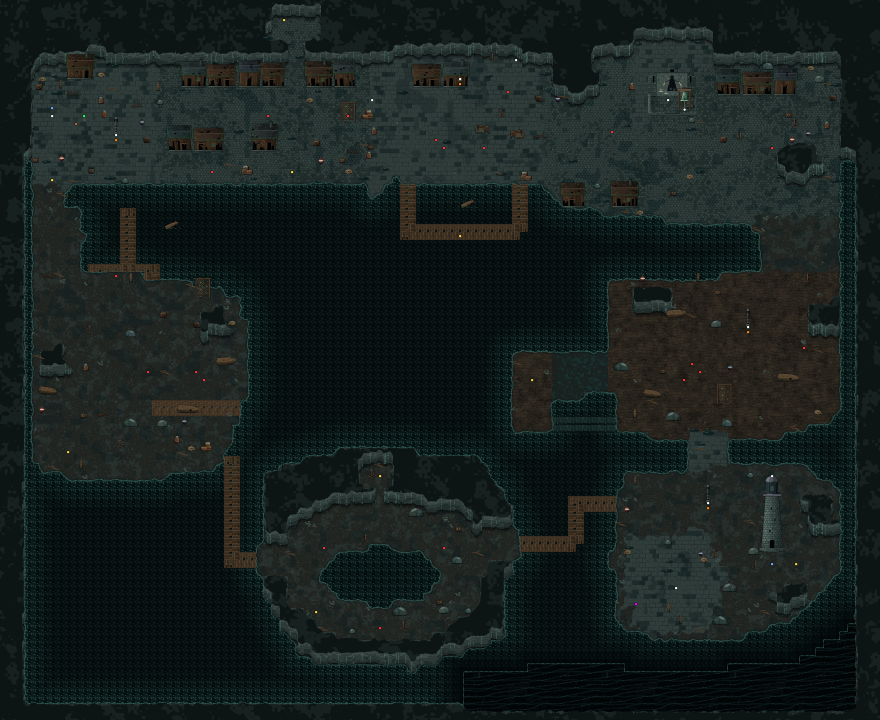
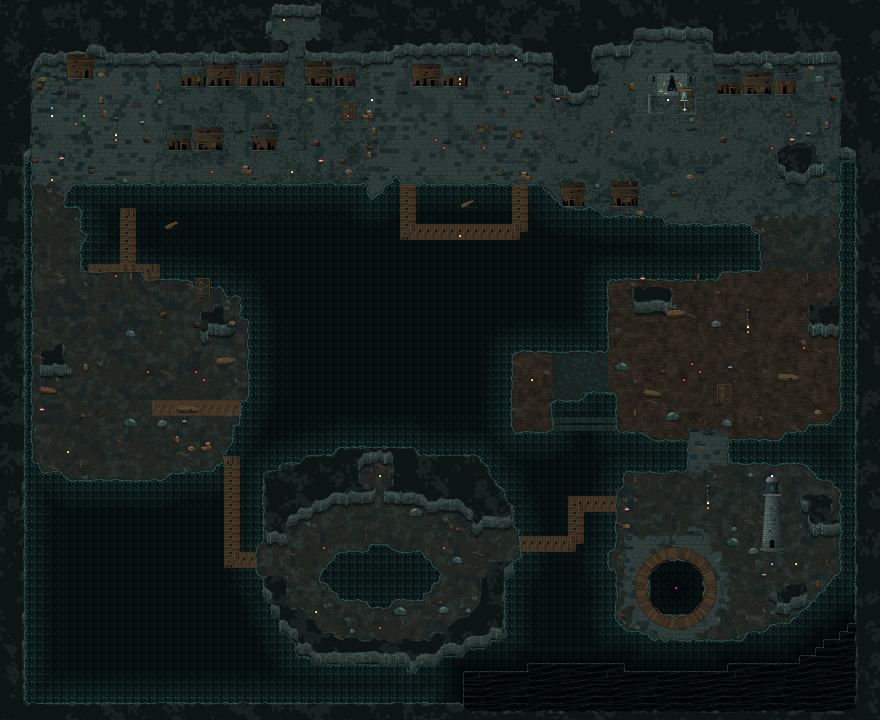
Mundo 4: la arena del Pez Farol es una poza negra con un anillo de tablas que se camina
La poza (radio 128) es agua negra sólida en el centro de arena_jefe (poza: 128), rodeada por anillo_poza
(tablas mojadas, pilotes y sogas) hasta el radio 208. El jefe arranca en el centro. La prueba revisa que el
anillo se camina entero con las dos mareas, se conecta con la entrada y llega a un farol.

Claude-Session: https://claude.ai/code/session_01CzS8aAP77ry69EfvgCR5Uw

Changed region(s): [[0.7057, 0.7639, 0.8284, 0.8861]]

diff --git a/src/engine/world/puertoMap.ts b/src/engine/world/puertoMap.ts
@@ -69,6 +69,8 @@ interface Design {
   tide: Uint8Array;
   /** agua quieta (reflejo) */
   still: Uint8Array;
+  /** la poza de la arena del Pez Farol (agua negra, honda) */
+  pool: Uint8Array;
 }
 
 function inPoly(x: number, y: number, poly: Poly): boolean {
@@ -161,15 +163,26 @@ const FLOTANTES: TP[] = [[69, 52], [71, 52], [73, 52], [75, 52]];
 
 /** El agua quieta de la cueva (reflejo) */
 const POZA = { c: [47.5, 72] as TP, rx: 7.6, ry: 3.6 };
+/**
+ * La arena del Pez Farol: una poza de agua negra de 4 cuadros de radio en el centro (ahí nada el pez, no se entra) y
+ * alrededor un anillo que se camina hasta el radio de la arena, con un muelle redondo de tablas, pilotes y sogas.
+ */
+export const ARENA_POZA = { c: [84.5, 73.5] as TP, r: 4, anillo: 6.6 };
 
 function makeDesign(): Design {
   const W = PUERTO_W, H = PUERTO_H, t = new Uint8Array(W * H).fill(ROCK);
-  const dock = new Uint8Array(W * H), tide = new Uint8Array(W * H), still = new Uint8Array(W * H);
+  const dock = new Uint8Array(W * H), tide = new Uint8Array(W * H), still = new Uint8Array(W * H), pool = new Uint8Array(W * H);
   for (const { t: v, poly } of TIERRAS) {
     for (let y = 0; y < H; y++) for (let x = 0; x < W; x++) if (inPoly(x + 0.5, y + 0.5, poly)) t[y * W + x] = v;
   }
   // la poza de la cueva
   for (let y = 0; y < H; y++) for (let x = 0; x < W; x++) if (Math.hypot((x + 0.5 - POZA.c[0]) / POZA.rx, (y + 0.5 - POZA.c[1]) / POZA.ry) < 1) { t[y * W + x] = WATER; still[y * W + x] = 1; }
+  // la arena del Pez Farol: la poza en el centro y el anillo que se camina alrededor
+  for (let y = 0; y < H; y++) for (let x = 0; x < W; x++) {
+    const dd = Math.hypot(x + 0.5 - ARENA_POZA.c[0], y + 0.5 - ARENA_POZA.c[1]), k = y * W + x;
+    if (dd < ARENA_POZA.r) { t[k] = WATER; still[k] = 1; pool[k] = 1; }
+    else if (dd < ARENA_POZA.anillo) t[k] = SLAB;
+  }
   // el barro de la marea baja
   for (let y = 0; y < H; y++) for (let x = 0; x < W; x++) if (inPoly(x + 0.5, y + 0.5, BARRO) && t[y * W + x] === WATER) { t[y * W + x] = MUD; tide[y * W + x] = 1; }
   // los muelles (ancho 2)
@@ -185,7 +198,7 @@ function makeDesign(): Design {
   for (const [x, y] of FLOTANTES) for (const dy of [0, 1]) for (const dx of [0, 1]) { const i = (y + dy) * W + x + dx; if (t[i] === WATER) tide[i] = 2; }
   // el borde del mapa es roca
   for (let y = 0; y < H; y++) for (let x = 0; x < W; x++) if (x < 2 || y < 2 || x >= W - 2 || y >= H - 1) t[y * W + x] = t[y * W + x] === VOID ? VOID : ROCK;
-  return { t, dock, tide, still };
+  return { t, dock, tide, still, pool };
 }
 
 /** Ruido de valor suave (para los bordes y las texturas del piso). */
@@ -278,6 +291,8 @@ function paintPuerto(d: Design, seed: number): PaintedTerrain {
       if (dVoid[i] < 160) a = Math.max(a, Math.round((1 - dVoid[i] / 160) * 235));
       // la poza de la cueva es quieta y un poco más clara en el medio
       if (d.still[ty * W + tx]) a = Math.round(40 + deep * 60);
+      // la poza del Pez Farol: tan negra como el mar hondo (la luz del pez es lo único que brilla ahí)
+      if (d.pool[ty * W + tx]) a = Math.max(160, Math.round(150 + deep * 60));
       set(i, [1, 4, 5], a);
       continue;
     }
@@ -601,9 +616,10 @@ export function puertoMap(seed = 444): BigMap & { premium: PuertoReport } {
   placeT('faro', LP.faro[0], LP.faro[1]);
   for (let y = LP.faro[1] - 1; y <= LP.faro[1]; y++) for (let x = LP.faro[0] - 2; x <= LP.faro[0] + 2; x++) occ[at(x, y)] = 1;
   const [ax, ay] = LP.arena;
-  entities.push({ tipo: 'arena_jefe', x: T(ax), y: T(ay), props: { radio: 6.5 * TILE, agua: true } });
-  // el pez sale del agua al borde de la plataforma
-  entities.push({ tipo: 'jefe', x: T(ax - 5), y: T(ay + 2), props: { enemigo: 'pez_farol', nombre: 'El Pez Farol', titulo: 'El que se robó la luz del faro', en_agua: true } });
+  entities.push({ tipo: 'arena_jefe', x: T(ax), y: T(ay), props: { radio: 6.5 * TILE, agua: true, poza: ARENA_POZA.r * TILE } });
+  // el pez nada en la poza del centro; la heroína pelea en el anillo de alrededor
+  entities.push({ tipo: 'jefe', x: T(ax), y: T(ay), props: { enemigo: 'pez_farol', nombre: 'El Pez Farol', titulo: 'El que se robó la luz del faro', en_agua: true } });
+  decos.push({ sprite: 'anillo_poza', x: T(ax), y: T(ay) });
   entities.push({ tipo: 'portal_jefe', x: T(LP.faro[0]), y: T(LP.faro[1] + 2), props: { color: 'rojo', destino: 'mundo5' } });
   chest(LP.faro[0] + 3, LP.faro[1] + 2, 'dorado', { tras_jefe: true });
   entities.push({ tipo: 'figura', x: T(LP.faro[0]), y: LP.faro[1] * TILE + TILE - 4 - 300, props: { id: 'faro', alto: true } });
@@ -615,6 +631,8 @@ export function puertoMap(seed = 444): BigMap & { premium: PuertoReport } {
     const rnd = () => { rs = (rs + 0x6d2b79f5) >>> 0; let t = Math.imul(rs ^ (rs >>> 15), rs | 1); t ^= t + Math.imul(t ^ (t >>> 7), t | 61); return ((t ^ (t >>> 14)) >>> 0) / 4294967296; };
     // cerca de las entidades no va nada (se pelea, se abre un cofre, se prende un farol)
     const avoid = new Uint8Array(W * H);
+    // el anillo de la arena queda libre para pelear
+    for (let y = 0; y < H; y++) for (let x = 0; x < W; x++) if (Math.hypot(x + 0.5 - ARENA_POZA.c[0], y + 0.5 - ARENA_POZA.c[1]) < ARENA_POZA.anillo + 1) avoid[at(x, y)] = 1;
     for (const e of entities) { const tx = Math.floor(e.x / TILE), ty = Math.floor(e.y / TILE); for (let dy = -1; dy <= 1; dy++) for (let dx = -1; dx <= 1; dx++) if (at(tx + dx, ty + dy) >= 0) avoid[at(tx + dx, ty + dy)] = 1; }
     const start = entities.find((e) => e.tipo === 'jugador_inicio')!;
     const s0 = at(Math.floor(start.x / TILE), Math.floor(start.y / TILE));
@@ -743,6 +761,7 @@ function poblar(m: BigMap & { premium: PuertoReport }, d: Design, c: PoblarCtx) 
       for (let t = 0; t < 30; t++) {
         const tx = sx + Math.floor(r() * 8), ty = sy + Math.floor(r() * 6), i = c.at(tx, ty);
         if (i < 0 || c.solid[i] || d.dock[i] || d.tide[i] || d.t[i] === WATER) continue;
+        if (Math.hypot(tx + 0.5 - ARENA_POZA.c[0], ty + 0.5 - ARENA_POZA.c[1]) < ARENA_POZA.anillo) continue;
         const px = tx * TILE + 4 + Math.floor(r() * 24), py = ty * TILE + 4 + Math.floor(r() * 24);
         const kd = m.terrain.kind[py * PWX + px];
         if (kd !== 1 && kd !== 2) continue;

diff --git a/src/engine/__tests__/puerto.test.ts b/src/engine/__tests__/puerto.test.ts
@@ -64,7 +64,7 @@ describe('Mundo 4: El Puerto Ahogado (mapa y objetos)', () => {
     expect(m.entities.some((e) => e.tipo === 'figura' && e.props?.alto)).toBe(true);
     for (const id of ['marinero_niebla', 'cangrejo_ceniza', 'medusa_negra']) expect(m.entities.filter((e) => e.props?.enemigo === id).length, id).toBeGreaterThanOrEqual(3);
     // todo lo que se usa se alcanza (salvo lo que está alto o en el portal del final)
-    for (const e of m.entities) if (e.tipo !== 'portal_jefe' && !e.props?.alto) expect(llega(e.x, e.y), `${e.tipo} ${e.props?.enemigo ?? ''} en ${Math.floor(e.x / TILE)},${Math.floor(e.y / TILE)}`).toBe(true);
+    for (const e of m.entities) if (e.tipo !== 'portal_jefe' && !e.props?.alto && !(/^(jefe|arena_jefe)$/.test(e.tipo) && (e.props?.en_agua || e.props?.poza))) expect(llega(e.x, e.y), `${e.tipo} ${e.props?.enemigo ?? ''} en ${Math.floor(e.x / TILE)},${Math.floor(e.y / TILE)}`).toBe(true);
   });
 
   it('las mareas: desde cualquier cuadro que se camina se llega a un farol, con la marea baja y con la alta', () => {
@@ -86,9 +86,41 @@ describe('Mundo 4: El Puerto Ahogado (mapa y objetos)', () => {
     expect(tiled.layers.map((l) => l.name)).toEqual(expect.arrayContaining(['marea_baja', 'marea_alta']));
   });
 
+  it('la arena del Pez Farol: poza de agua en el centro (no se entra) y un anillo que se camina entero, con salida a un farol', () => {
+    const arena = m.entities.find((e) => e.tipo === 'arena_jefe')!;
+    const jefe = m.entities.find((e) => e.tipo === 'jefe')!;
+    expect([jefe.x, jefe.y]).toEqual([arena.x, arena.y]);
+    const poza = Number(arena.props!.poza), radio = Number(arena.props!.radio);
+    expect(poza).toBe(128);
+    const cx = arena.x / TILE, cy = arena.y / TILE;
+    const ring: number[] = [];
+    for (let y = 0; y < H; y++) for (let x = 0; x < W; x++) {
+      const dd = Math.hypot(x + 0.5 - cx, y + 0.5 - cy) * TILE, k = y * W + x;
+      // la poza: agua, sólida y con su agua animada
+      if (dd < poza - 20) { expect(m.solid[k], `poza ${x},${y}`).toBe(1); expect(m.terrain.waterTiles[k], `agua ${x},${y}`).toBe(1); }
+      if (dd > poza + 16 && dd < radio - 8) ring.push(k);
+    }
+    expect(ring.length).toBeGreaterThan(40);
+    // el anillo se camina entero (con las dos mareas) y desde ahí se llega a un farol
+    const faroles = m.entities.filter((e) => e.tipo === 'punto_guardado').map((f) => Math.floor(f.y / TILE) * W + Math.floor(f.x / TILE));
+    for (const marea of ['baja', 'alta'] as const) {
+      const ok = walk(marea);
+      for (const k of ring) expect(ok[k], `anillo ${k % W},${Math.floor(k / W)}`).toBe(1);
+      const desde = bfs(ok, faroles);
+      for (const k of ring) expect(desde[k], `anillo a un farol (${marea})`).toBe(1);
+      // y el anillo da la vuelta entera sin pasar por afuera
+      const solo = new Uint8Array(W * H);
+      for (const k of ring) solo[k] = 1;
+      expect(bfs(solo, [ring[0]]).reduce((a, v) => a + v, 0)).toBe(ring.length);
+    }
+    expect(m.decos.some((d) => d.sprite === 'anillo_poza' && d.x === arena.x && d.y === arena.y)).toBe(true);
+  });
+
   it('al menos tres ramas que vuelven al camino: tapar una no deja afuera lo importante', () => {
     expect(m.premium.ramas.length).toBeGreaterThanOrEqual(3);
-    const importantes = m.entities.filter((e) => /^(jefe|punto_guardado)$/.test(e.tipo));
+    // lo importante: los faroles y el anillo de la arena (el pez nada en la poza, no se pisa)
+    const arena = m.entities.find((e) => e.tipo === 'arena_jefe')!;
+    const importantes = [...m.entities.filter((e) => e.tipo === 'punto_guardado'), { tipo: 'anillo de la arena', x: arena.x, y: arena.y + 5 * TILE }];
     for (const rama of m.premium.ramas.filter((r) => r.tapar.length)) {
       const ok = Uint8Array.from(m.solid, (v) => (v ? 0 : 1));
       for (const [x, y] of rama.tapar) ok[y * W + x] = 0;

diff --git a/src/engine/world/puertoObjects.ts b/src/engine/world/puertoObjects.ts
@@ -351,8 +351,50 @@ function tideWater(): WorldObject {
   return { name: 'agua_marea', w: 32, h: 32, anchor: [16, 16], solid: null, layer: 'suelo', anims: { idle: { frames, fps: 6, loop: true } } };
 }
 
+/**
+ * El muelle redondo de la arena del Pez Farol (352 x 352, capa suelo, apoyo en el centro): un anillo de tablas
+ * radiales que asoma sobre el borde de la poza, con doce pilotes en el borde de adentro y sogas que cuelgan entre
+ * ellos. Entre tabla y tabla queda la rendija por donde se ve el agua o la piedra. Se camina entero.
+ */
+function poolRing(): WorldObject {
+  const S = 352, c = S / 2, r = createRaster(S, S), M = PUERTO.madera;
+  const R0 = 118, R1 = 164, N = 84;
+  for (let y = 0; y < S; y++) for (let x = 0; x < S; x++) {
+    const dx = x + 0.5 - c, dy = y + 0.5 - c, d = Math.hypot(dx, dy);
+    if (d < R0 || d > R1) continue;
+    const a = (Math.atan2(dy, dx) + Math.PI) / (Math.PI * 2), u = a * N, board = Math.floor(u), inB = u - board;
+    const edge = d < R0 + 3 || d > R1 - 3;
+    if (!edge && inB < 0.12) continue; // rendija
+    if (!edge && hash(board, 3, 41) > 0.93 && d > R0 + 18 && d < R0 + 30) continue; // una tabla rota
+    let l = 0.48 + (inB < 0.3 ? 0.14 : inB > 0.85 ? -0.16 : 0) + (hash(board, 0, 42) - 0.5) * 0.24 - (dy > 0 ? 0.06 : 0);
+    if (edge) l = d < R0 + 3 ? 0.3 : 0.22;
+    if (hash(x >> 1, y >> 1, 43) > 0.93) l -= 0.15; // humedad
+    put(r, x, y, tone(M, l, x, y));
+    if (!edge && Math.abs(d - (R0 + R1) / 2) < 0.6 && board % 3 === 0) put(r, x, y, PUERTO.hierro[3]); // clavos
+  }
+  // las sogas entre pilote y pilote, colgando hacia la poza
+  const posts = 12, pr = R0 + 3;
+  for (let k = 0; k < posts; k++) {
+    const a0 = (k / posts) * Math.PI * 2, a1 = ((k + 1) / posts) * Math.PI * 2;
+    for (let t = 0; t <= 1; t += 0.01) {
+      const a = a0 + (a1 - a0) * t, rr = pr - 2 - Math.sin(t * Math.PI) * 7;
+      put(r, c + Math.cos(a) * rr, c + Math.sin(a) * rr, PUERTO.red[t > 0.5 ? 1 : 2]);
+    }
+  }
+  // los pilotes
+  for (let k = 0; k < posts; k++) {
+    const a = (k / posts) * Math.PI * 2, px = c + Math.cos(a) * pr, py = c + Math.sin(a) * pr;
+    for (let y = -6; y <= 6; y++) for (let x = -6; x <= 6; x++) {
+      const dd = Math.hypot(x, y);
+      if (dd < 5.6) put(r, px + x, py + y, dd > 4.4 ? M[0] : tone(M, 0.66 - (x + y) * 0.05, px + x, py + y));
+    }
+    put(r, px - 1, py - 2, M[5]); put(r, px + 2, py - 4, PUERTO.alga[2]);
+  }
+  return { name: 'anillo_poza', w: S, h: S, anchor: [c, c], solid: null, layer: 'suelo', anims: one(r) };
+}
+
 export function puertoObjectsA(): WorldObject[] {
-  return [...dockLanterns(), lighthouseObject(), ...docks(), floatingDockObject(), tideWater()];
+  return [...dockLanterns(), lighthouseObject(), ...docks(), floatingDockObject(), tideWater(), poolRing()];
 }
 
 export { wood, stone, cloth, one, grounded, type Anim, type P };
